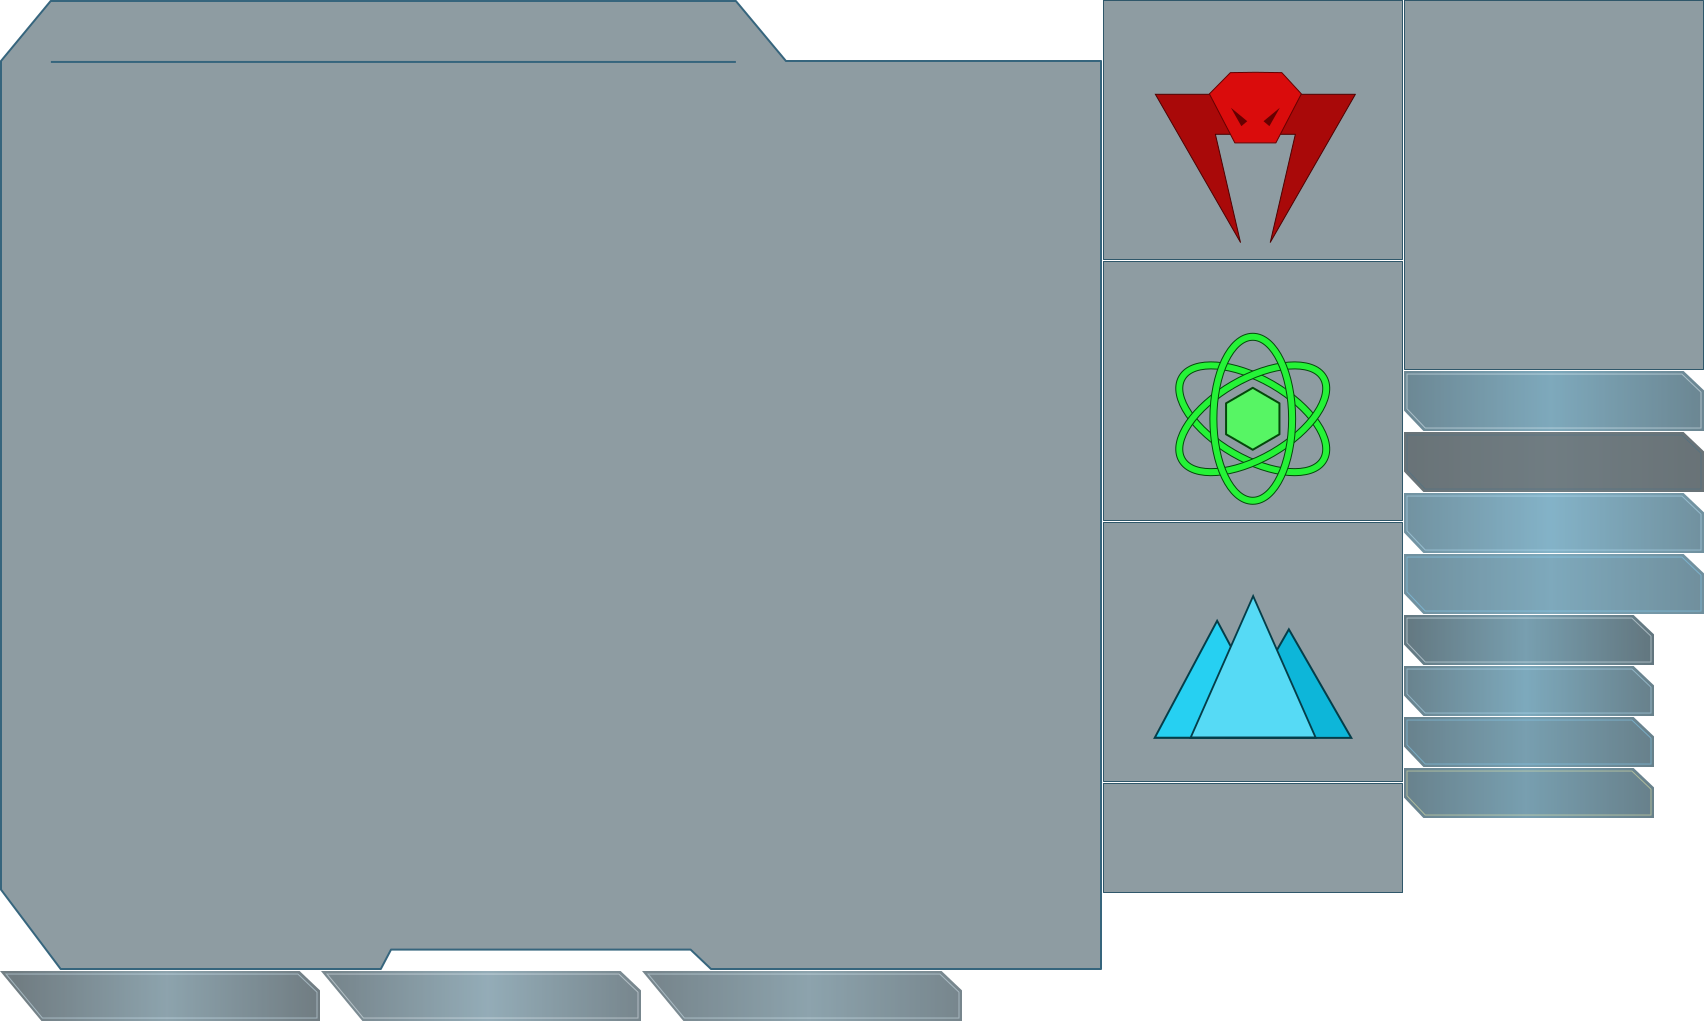
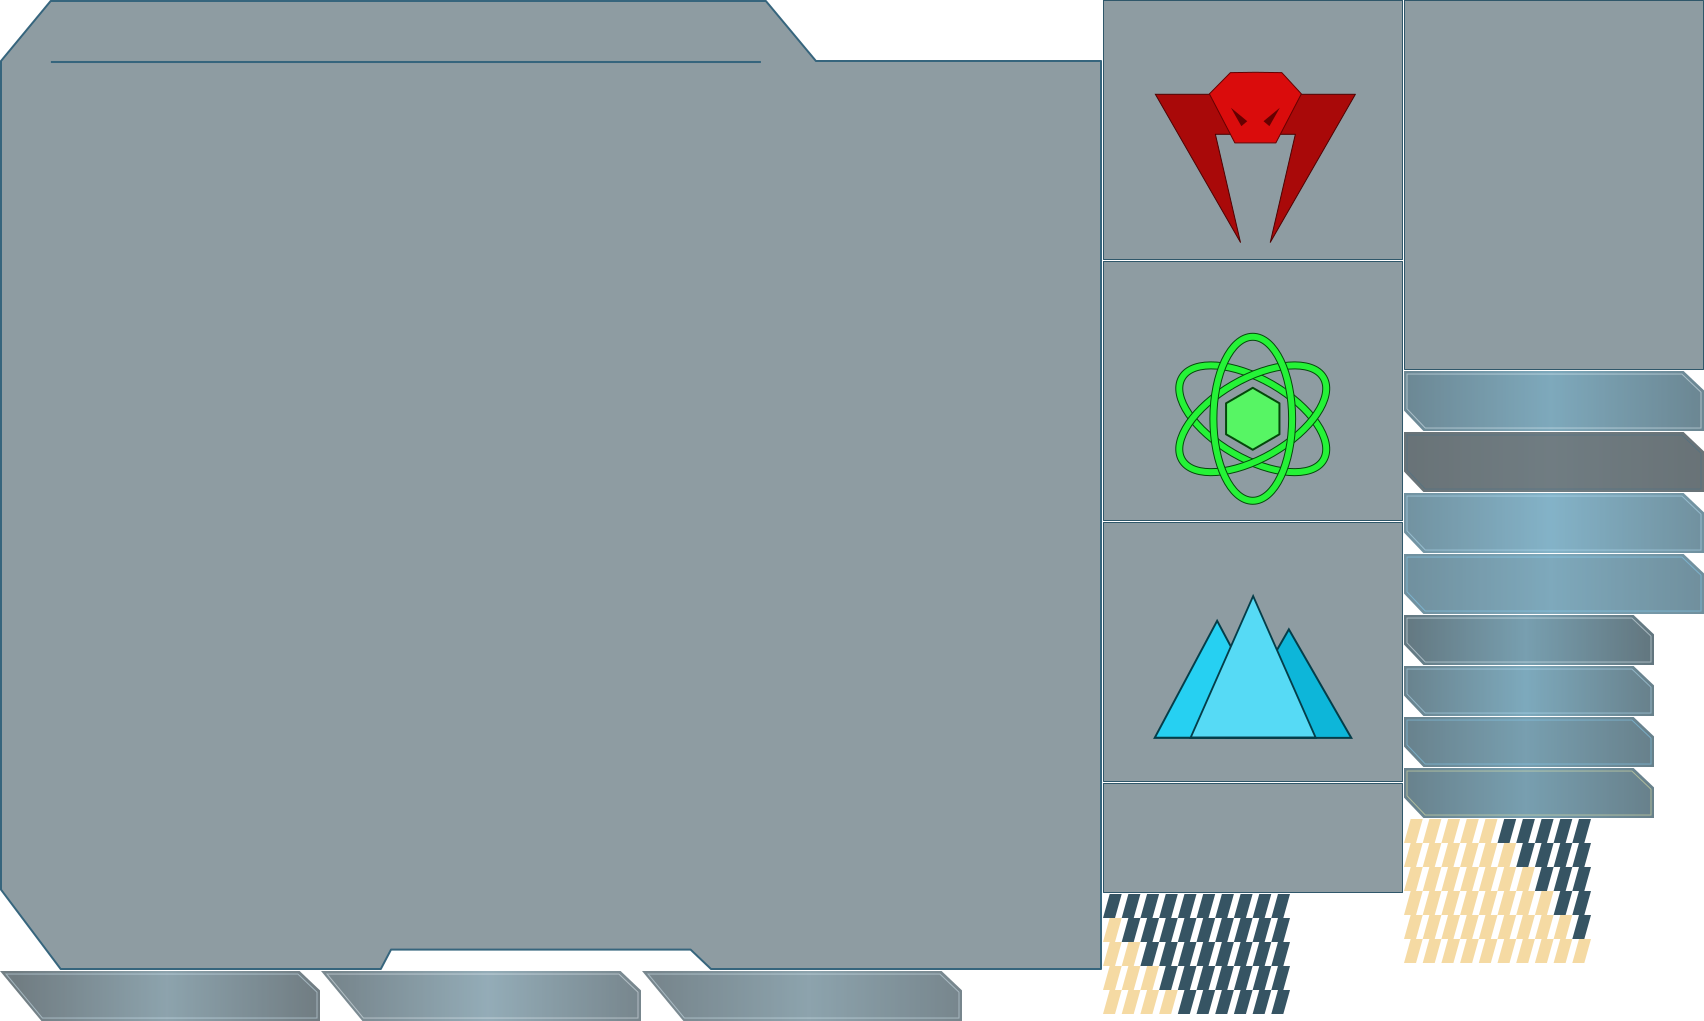
Update faction selection screen to new design
Also minor change in faction attributes

Changed region(s): [[0.6221, 0.8501, 0.7776, 1.0], [0.8087, 0.7894, 0.9331, 0.9412], [0.4354, 0.0, 0.4977, 0.0607]]

diff --git a/src/Screens/ScreenFactionSelection.cpp b/src/Screens/ScreenFactionSelection.cpp
@@ -50,6 +50,7 @@ ScreenFactionSelection::ScreenFactionSelection(Game * game)
 
     panelMain->SetPosition(pmX, pmY);
 
+    const unsigned int colorTitle = 0xedf5f7ff;
     const unsigned int colorHeader = 0xdbebf0ff;
     const unsigned int colorText = 0xb8d3e0ff;
 
@@ -68,7 +69,7 @@ ScreenFactionSelection::ScreenFactionSelection(Game * game)
     fnt = fm->GetFont("data/fonts/Lato-Regular.ttf", 44, graphic::Font::NORMAL);
     sgui::Label * labelTitle = new sgui::Label("SELECT YOUR FACTION", fnt, panelMain);
     labelTitle->SetPosition(x, y);
-    labelTitle->SetColor(colorHeader);
+    labelTitle->SetColor(colorTitle);
 
     graphic::Font * fntFaction = fm->GetFont("data/fonts/Lato-Regular.ttf", 32, graphic::Font::NORMAL);
     graphic::Font * fntTxt = fm->GetFont("data/fonts/Lato-Regular.ttf", 20, graphic::Font::NORMAL);
@@ -134,8 +135,7 @@ ScreenFactionSelection::ScreenFactionSelection(Game * game)
     y += panelTxt->GetHeight() + marginPanelsH;
 
     // PANEL ATTRIBUTES
-
-    int panelStatsH = AddPanelStats(x, y, { 8, 6, 10, 3 }, panelCol);
+    int panelStatsH = AddPanelStats(x, y, { 7, 6, 9, 3 }, panelCol);
 
     y += panelStatsH + marginPanelsH;
 
@@ -203,8 +203,7 @@ ScreenFactionSelection::ScreenFactionSelection(Game * game)
     y += panelTxt->GetHeight() + marginPanelsH;
 
     // PANEL ATTRIBUTES
-
-    panelStatsH = AddPanelStats(x, y, { 6, 9, 3, 8 }, panelCol);
+    panelStatsH = AddPanelStats(x, y, { 6, 9, 3, 7 }, panelCol);
 
     y += panelStatsH + marginPanelsH;
 
@@ -218,8 +217,6 @@ ScreenFactionSelection::ScreenFactionSelection(Game * game)
     {
        HandleSelect(checked, FACTION_2);
     });
-
-    x = panelFaction->GetWidth() + marginFaction;
 
     // -- FACTION 3 --
     x = panelCol->GetX() + panelFaction->GetWidth() + marginFaction;
@@ -275,8 +272,7 @@ ScreenFactionSelection::ScreenFactionSelection(Game * game)
     y += panelTxt->GetHeight() + marginPanelsH;
 
     // PANEL ATTRIBUTES
-
-    panelStatsH = AddPanelStats(x, y, { 9, 6, 5, 6 }, panelCol);
+    panelStatsH = AddPanelStats(x, y, { 9, 5, 5, 6 }, panelCol);
 
     y += panelStatsH + marginPanelsH;
 
@@ -285,8 +281,6 @@ ScreenFactionSelection::ScreenFactionSelection(Game * game)
 
     btnX = x + (panelFaction->GetWidth() - mButtonsSelect[FACTION_3]->GetWidth()) * 0.5f;
     mButtonsSelect[FACTION_3]->SetPosition(btnX, y);
-
-    x += panelFaction->GetWidth() + marginFaction;
 
     mButtonsSelect[FACTION_3]->AddOnToggleFunction([this](bool checked)
     {
@@ -341,16 +335,17 @@ void ScreenFactionSelection::InitSprites()
         { 1404, 0, 300, 370 },
 
         // ATTRIBUTES BAR
-        { 1103, 894, 10, 12 },
-        { 1114, 894, 10, 14 },
-        { 1125, 894, 10, 16 },
-        { 1136, 894, 10, 18 },
-        { 1147, 894, 10, 20 },
-        { 1158, 894, 10, 22 },
-        { 1169, 894, 10, 24 },
-        { 1180, 894, 10, 26 },
-        { 1191, 894, 10, 28 },
-        { 1202, 894, 10, 30 },
+        { 1103, 894, 187, 24 },
+        { 1103, 918, 187, 24 },
+        { 1103, 942, 187, 24 },
+        { 1103, 966, 187, 24 },
+        { 1103, 990, 187, 24 },
+        { 1404, 819, 187, 24 },
+        { 1404, 843, 187, 24 },
+        { 1404, 867, 187, 24 },
+        { 1404, 891, 187, 24 },
+        { 1404, 915, 187, 24 },
+        { 1404, 939, 187, 24 },
 
         // BACK BUTTON
         { 0, 971, 320, 50 },
@@ -387,7 +382,7 @@ int ScreenFactionSelection::AddPanelStats(int x, int y, const std::array<int, NU
     auto panel = new sgui::Image(tex, parent);
     panel->SetPosition(x, y);
 
-    graphic::Font * fnt = fm->GetFont("data/fonts/Lato-Regular.ttf", 20, graphic::Font::NORMAL);
+    graphic::Font * fnt = fm->GetFont("data/fonts/Lato-Bold.ttf", 20, graphic::Font::NORMAL);
 
     const int marginHeaderB = 5;
     const int marginBlockB = 36;
@@ -430,33 +425,12 @@ int ScreenFactionSelection::AddPanelStats(int x, int y, const std::array<int, NU
         contY += header0->GetHeight() + marginHeaderB;
 
         // stat bar
-        const int maxH = tm->GetSprite(SpriteFileFactionSelection, IND_FSEL_PIP9)->GetHeight();
+        tex = tm->GetSprite(SpriteFileFactionSelection, IND_FSEL_BAR0 + stat);
 
-        int colorInd = attLevels - 1;
+        auto bar = new sgui::Image(tex, panelContent);
+        bar->SetPosition(contX, contY);
 
-        if(stat < treshPip[0])
-            colorInd = 0;
-        else if(stat < treshPip[1])
-            colorInd = 1;
-        else if(stat < treshPip[2])
-            colorInd = 2;
-
-        for(unsigned int p = 0; p < NUM_FSEL_PIPS; ++p)
-        {
-            tex = tm->GetSprite(SpriteFileFactionSelection, IND_FSEL_PIP0 + p);
-            auto pip = new sgui::Image(tex, panelContent);
-            pip->SetPosition(contX, contY + maxH - pip->GetHeight());
-
-            if(p < stat)
-                pip->SetColor(colorPip[colorInd]);
-            else
-                pip->SetColor(colorPipOff);
-
-            contX += pip->GetWidth() * 2;
-        }
-
-        contX = 0;
-        contY += maxH + marginBlockB;
+        contY += bar->GetHeight() + marginBlockB;
     }
 
     // position content panel

diff --git a/src/Widgets/GameUIData.h b/src/Widgets/GameUIData.h
@@ -17,16 +17,17 @@ enum SpriteIdFactionSelection : unsigned int
     IND_FSEL_PANEL_ATTR,
 
     // ATTRIBUTES BAR
-    IND_FSEL_PIP0,
-    IND_FSEL_PIP1,
-    IND_FSEL_PIP2,
-    IND_FSEL_PIP3,
-    IND_FSEL_PIP4,
-    IND_FSEL_PIP5,
-    IND_FSEL_PIP6,
-    IND_FSEL_PIP7,
-    IND_FSEL_PIP8,
-    IND_FSEL_PIP9,
+    IND_FSEL_BAR0,
+    IND_FSEL_BAR1,
+    IND_FSEL_BAR2,
+    IND_FSEL_BAR3,
+    IND_FSEL_BAR4,
+    IND_FSEL_BAR5,
+    IND_FSEL_BAR6,
+    IND_FSEL_BAR7,
+    IND_FSEL_BAR8,
+    IND_FSEL_BAR9,
+    IND_FSEL_BAR10,
 
     // BACK BUTTON
     IND_FSEL_BACK_NORMAL,
@@ -46,7 +47,7 @@ enum SpriteIdFactionSelection : unsigned int
     IND_FSEL_CONTINUE_PUSHED,
 
     // SPECIAL VALUES
-    NUM_FSEL_PIPS = IND_FSEL_PIP9 - IND_FSEL_PIP0 + 1
+    NUM_FSEL_PIPS = IND_FSEL_BAR9 - IND_FSEL_BAR0 + 1
 };
 
 // NEW UNIT DIALOG
